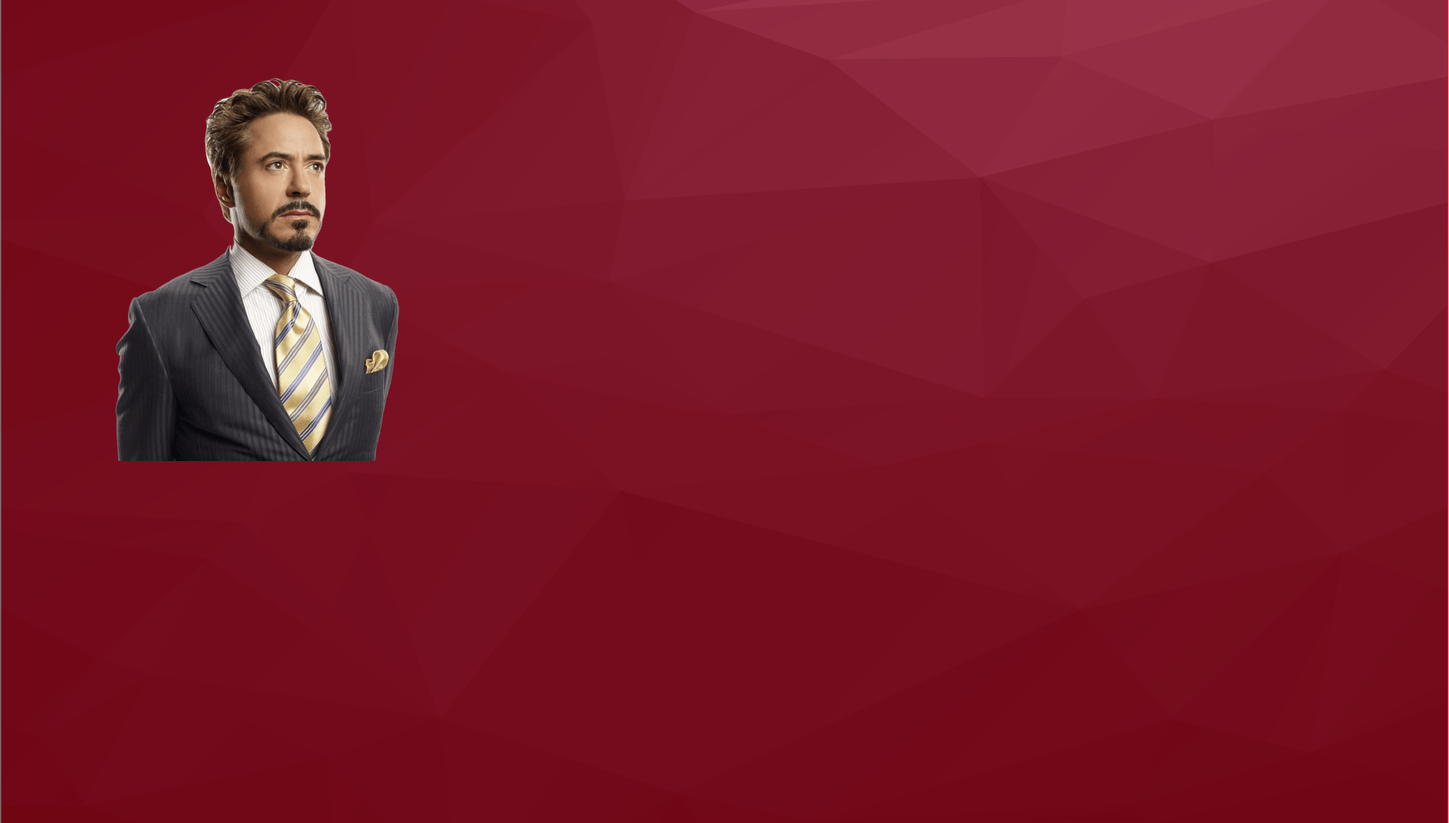
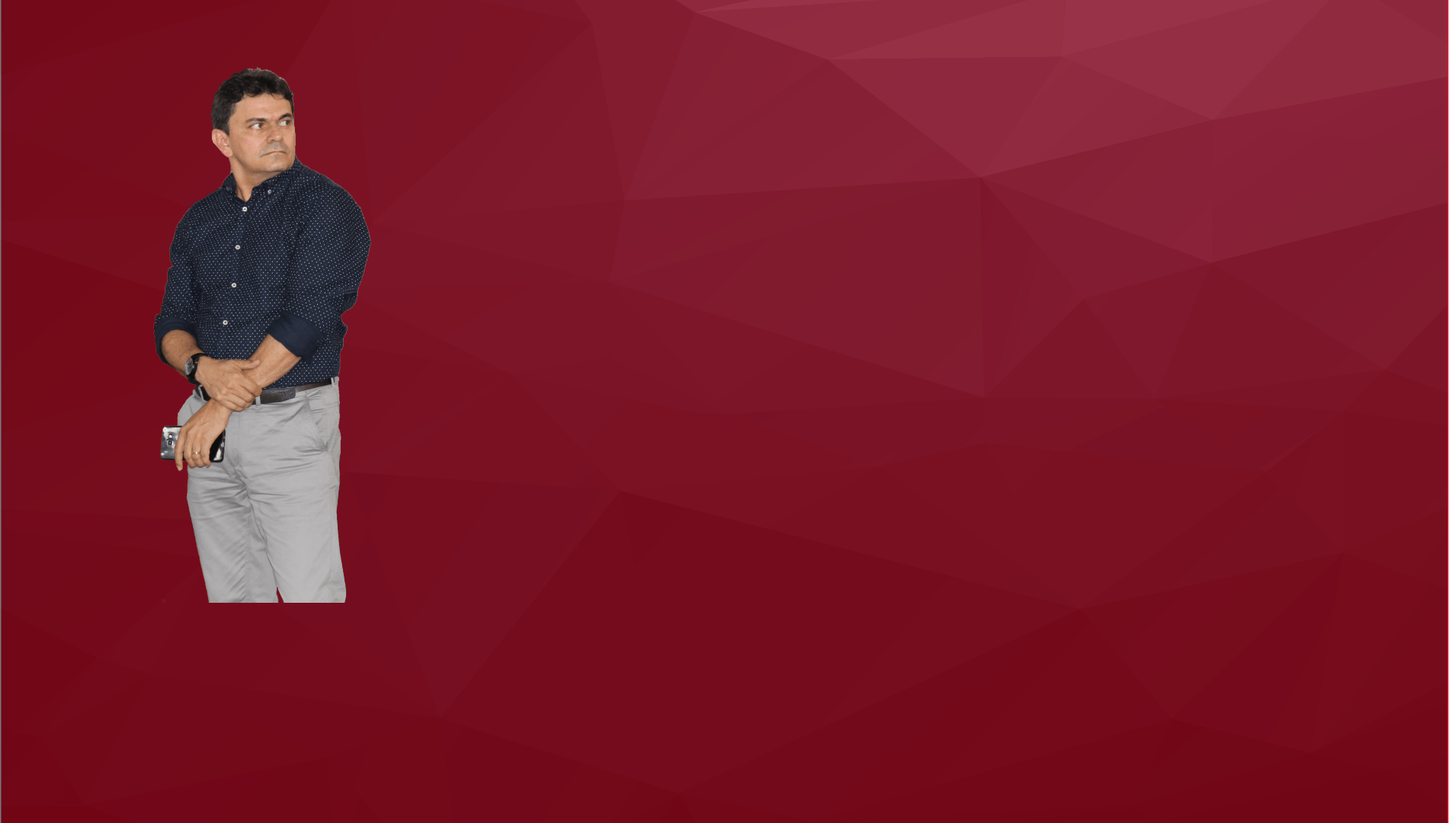
Alteração de imagens e responsividade

Changed region(s): [[0.0621, 0.0611, 0.2793, 0.7333]]

diff --git a/quick/index/templates/index/curso.html b/quick/index/templates/index/curso.html
@@ -58,49 +58,46 @@
 
                     <ul class="estilo_lista">
                         <li>
-                            Introdução ao APH, Cinemática do trauma, Abordagem primária, Colocação do colar cervical, Escala de Coma de Glasgow, Noções fundamentais de anatomia e fisiologia.
+                            Identificar o “gap” de competências. 
                         </li>
                     </ul>
                     <ul class="estilo_lista">
                         <li>
-                            Abordagem secundária, Rolamento 90° e 180°, Sinais vitais, Retirada de capacete.
+                            Garantir que metas de desenvolvimento sejam realizadas, a partir dos “gap” identificados.
                         </li>
                     </ul>
                     <ul class="estilo_lista">
                         <li>
-                            Rapel, Desobstrução das vias aéreas;
+                            Aumentar a autoestima, contribuindo para que os coachee possam superar obstáculos
+                            e alcançar suas metas de desempenho com excelência, ancorados pelas competências
+                            universais.
                         </li>
                     </ul>
                     <ul class="estilo_lista">
                         <li>
-                            RCP adulto/pediátrico/recém-nascido, Oximetria de pulso, Equipamentos para ventilação, Importância das vias e métodos de administração de medicamentos e acesso venoso, Biossegurança e precauções universais;
-
+                            Ampliar os níveis de proficiência nas competências trabalhadas durante o processo de
+                            coaching.
                         </li>
                     </ul>
                     <ul class="estilo_lista">
                         <li>
-                            Hemorragia e ferimentos, Bandagens, Elevação e transporte de vítimas, Bússola;
+                            Gerir o stress e transpor obstáculos com garra e vontade.
                         </li>
                     </ul>
                     <ul class="estilo_lista">
                         <li>
-                            Emergência Clínicas;
+                            Encontrar caminhos para o alcance da excelência profissional e pessoal.
                         </li>
                     </ul>
                     <ul class="estilo_lista">
                         <li>
-                            Acampamento, Salvamento aquática
-                        </li>
-                    </ul>
-                    <ul class="estilo_lista">
-                        <li>
-                            Traumatismo músculo-esquelético, Escala de Trauma, Imobilização de fraturas, Improviso de colar cervical, Retirada de veículo;
+                            Trabalhar a resiliência e persistir na busca de resultados desejados.
                         </li>
                     </ul>
                 </div>
             </div>
 
-            <div class="col-md-4 text-left estilo_lista" style="margin-top: -363px;">
+            <div class="col-md-4 text-left estilo_lista_espaco">
 
                 <h2 class="social-title" style="font-size: 25px;">Duração:</h2>
                 <span style="font-size: 14px">10 meses (Dividido em 10 módulos).</span>
@@ -139,7 +136,7 @@
                 <div class="modal-dialog" role="document">
                     <div class="modal-content col-md-11 col-md-offset-0 text-center">
                         <div class="modal-header" style="border-bottom: 1px; margin-top: 20px">
-                            <h3 class="modal-title" style="font-size: 27px; margin-right: 1px;" id="inscrever">Efetuar inscrição neste curso!</h3>
+                            <h3 class="modal-title" style="font-size: 24px; margin-left: 40px; color:white" id="inscrever">Efetuar inscrição neste curso!</h3>
 
                             <button type="button" class="close" style="margin-top: -106px; margin-right: -13px" data-dismiss="modal" aria-label="Close">
                                     <span aria-hidden="true">&times;</span>
@@ -148,51 +145,51 @@
                         <div class="modal-body">
                             <form>
                                 <div class="form-group">
-                                    <label><h4 class="text-gray">Nome Completo*</h4></label>
+                                    <label><h4 class="text-white">Nome Completo*</h4></label>
                                     <input type="text" name="text" value="" placeholder="João Pedro Martins" class="form-control form-control-plain">
                                 </div>
                                 <div class="form-group">
-                                    <label><h4 class="text-gray">CPF*</h4></label>
+                                    <label><h4 class="text-white">CPF*</h4></label>
                                     <input type="text" name="cpf" placeholder="000.000.000-00" class="form-control form-control-plain">
                                 </div>
                                 <div class="form-group">
-                                    <label><h4 class="text-gray">E-mail*</h4></label>
+                                    <label><h4 class="text-white">E-mail*</h4></label>
                                     <input type="email" name="email" placeholder="joao-pedro@provedor.com" class="form-control form-control-plain">
                                 </div>
                                 <div class="form-group">
-                                    <label><h4 class="text-gray">Data de Nascimento*</h4></label>
+                                    <label><h4 class="text-white">Data de Nascimento*</h4></label>
                                     <input type="text" name="dtnasc" placeholder="11/11/2011" class="form-control form-control-plain">
                                 </div>
                                 <div class="form-group">
-                                    <label><h4 class="text-gray">Senha para acesso ao portal*</h4></label>
+                                    <label><h4 class="text-white">Senha para acesso ao portal*</h4></label>
                                     <input type="password" name="password" placeholder="●●●●" class="form-control form-control-plain">
                                 </div>
                                 <div class="form-group">
-                                    <label><h4 class="text-gray">Celular*</h4></label>
+                                    <label><h4 class="text-white">Celular*</h4></label>
                                     <input type="text" name="celular" placeholder="84 99879-8989" class="form-control form-control-plain">
                                 </div>
                                 <div class="form-group">
-                                    <label><h4 class="text-gray">Endereço*</h4></label>
+                                    <label><h4 class="text-white">Endereço*</h4></label>
                                     <input type="text" name="endereco" placeholder="Rua, Av..." class="form-control form-control-plain">
                                 </div>
                                 <div class="form-group">
-                                    <label><h4 class="text-gray">Número*</h4></label>
+                                    <label><h4 class="text-white">Número*</h4></label>
                                     <input type="text" name="numero" placeholder="99999" class="form-control form-control-plain">
                                 </div>
                                 <div class="form-group">
-                                    <label><h4 class="text-gray">Bairro*</h4></label>
+                                    <label><h4 class="text-white">Bairro*</h4></label>
                                     <input type="text" name="bairro" placeholder="Nome do bairro" class="form-control form-control-plain">
                                 </div>
                                 <div class="form-group">
-                                    <label><h4 class="text-gray">Complemento*</h4></label>
+                                    <label><h4 class="text-white">Complemento*</h4></label>
                                     <input type="text" name="complemento" placeholder="Apt. 9999" class="form-control form-control-plain">
                                 </div>
                                 <div class="form-group">
-                                    <label><h4 class="text-gray">Cidade*</h4></label>
+                                    <label><h4 class="text-white">Cidade*</h4></label>
                                     <input type="text" name="cidade" placeholder="Nome da cidade" class="form-control form-control-plain">
                                 </div>
                                 <div class="form-group">
-                                    <label><h4 class="text-gray">Estado*</h4></label>
+                                    <label><h4 class="text-white">Estado*</h4></label>
                                     <select class="form-control form-control-plain">
                                             <option selected>Rio Grande do Norte</option>
                                             <option>...</option>
@@ -211,7 +208,7 @@
                 <div class="modal-dialog" role="document">
                     <div class="modal-content col-md-11 col-md-offset-0 text-center">
                         <div class="modal-header" style="border-bottom: 0px; margin-top: 20px">
-                            <h2 class="modal-title" style="font-size: 27px; margin-right: 1px;" id="interesse">Tenho interesse neste curso!</h2>
+                            <h2 class="modal-title" style="font-size: 27px; margin-right: 1px; color:white;" id="interesse">Tenho interesse neste curso!</h2>
                             <button type="button" class="close" style="margin-top: -106px; margin-right: -13px" data-dismiss="modal" aria-label="Close">
                                     <span aria-hidden="true">&times;</span>
                                 </button>
@@ -219,15 +216,15 @@
                         <div class="modal-body">
                             <form>
                                 <div class="form-group">
-                                    <label><h4 class="text-gray">Nome Completo*</h4></label>
+                                    <label><h4 class="text-white">Nome Completo*</h4></label>
                                     <input type="text" name="text" value="" placeholder="João Pedro Martins" class="form-control form-control-plain">
                                 </div>
                                 <div class="form-group">
-                                    <label><h4 class="text-gray">E-mail*</h4></label>
+                                    <label><h4 class="text-white">E-mail*</h4></label>
                                     <input type="email" name="email" placeholder="joao-pedro@provedor.com" class="form-control form-control-plain">
                                 </div>
                                 <div class="form-group">
-                                    <label><h4 class="text-gray">Celular*</h4></label>
+                                    <label><h4 class="text-white">Celular*</h4></label>
                                     <input type="text" name="celular" placeholder="84 99879-8989" class="form-control form-control-plain">
                                 </div>
                             </form>

diff --git a/quick/index/templates/index/catalogoProfessor.html b/quick/index/templates/index/catalogoProfessor.html
@@ -38,9 +38,6 @@
                 <li data-target="#carouselExampleIndicators" data-slide-to="0" class="active"></li>
                 <li data-target="#carouselExampleIndicators" data-slide-to="1"></li>
                 <li data-target="#carouselExampleIndicators" data-slide-to="2"></li>
-                <li data-target="#carouselExampleIndicators" data-slide-to="3"></li>
-                <li data-target="#carouselExampleIndicators" data-slide-to="4"></li>
-                <li data-target="#carouselExampleIndicators" data-slide-to="5"></li>
             </ol>
             <div class="carousel-inner" role="listbox">
                 <!-- Slide One - Set the background image for this slide in the line below -->
@@ -49,7 +46,7 @@
                     <div class="carousel-caption d-none d-md-block">
                         <div style="width: 18rem; transform: translate(600px, -50px)">
                             <div class="card card2">
-                                <img class="card-img-top img-fluid" src="{% static 'img/cards_completos/card_vermelho/iron.png' %}" alt="Card image cap">
+                                <img class="card-img-top img-fluid" src="{% static 'img/CarlosMoura.jpg' %}" alt="Card image cap">
                                 <div class="card-body">
                                     <h5 class="card-title card-text">Coaching Motivacional</h5>
                                     <p class="card-text">Coach Motivacional tem o objetivo de fazer com que os treinados contemplem seus pensamentos...</p>
@@ -65,7 +62,7 @@
                     <div class="carousel-caption d-none d-md-block">
                         <div style="width: 18rem; transform: translate(600px, -50px)">
                             <div class="card card2">
-                                <img class="card-img-top img-fluid" src="{% static 'img/cards_completos/card_vermelho/iron.png' %}" alt="Card image cap">
+                                <img class="card-img-top img-fluid" src="{% static 'img/CarlosMoura.jpg' %}" alt="Card image cap">
                                 <div class="card-body">
                                     <h5 class="card-title card-text">Coaching Educacional</h5>
                                     <p class="card-text">Coaching Educacional é voltado tanto ao desenvolvimento dos professores e demais profissionais da educação...</p>
@@ -81,7 +78,7 @@
                     <div class="carousel-caption d-none d-md-block">
                         <div style="width: 18rem; transform: translate(600px, -50px)">
                             <div class="card card2">
-                                <img class="card-img-top img-fluid" src="{% static 'img/cards_completos/card_vermelho/iron.png' %}"alt="Card image cap">
+                                <img class="card-img-top img-fluid" src="{% static 'img/CarlosMoura.jpg' %}"alt="Card image cap">
                                 <div class="card-body">
                                     <h5 class="card-title card-text">Coaching Empresarial</h5>
                                     <p class="card-text">Coaching Empresarial entra exatamente para ajudar os empresários a gerenciarem suas demandas com sucesso...</p>
@@ -109,34 +106,34 @@
                         <p class="card-text card-text-edit">Coaching Motivacional</p>
                         <div class="card-deck">
                             <div class="card card2">
-                                <img class="card-img-top img-fluid" src="{% static 'img/cards_completos/card_vermelho/iron.png' %}" alt="Card image cap">
+                                <img class="card-img-top img-fluid" src="{% static 'img/CarlosMoura.jpg' %}" alt="Card image cap">
                                 <div class="card-body">
-                                    <h5 class="card-title card-text">Vou deixar esses 2 como exemplo</h5>
-                                    <p class="card-text">Coach Motivacional tem o objetivo de fazer com que os treinados contemplem seus pensamentos...</p>
+                                    <h5 class="card-title card-text">Módulo 1</h5>
+                                    <p class="card-text">Coach Motivacional tem o objetivo de fazer com que os treinados contemplem seus pensamentos.</p>
                                     <a href="{% url 'curso' %}" class="btn btn-block btn-outline-danger">Saiba Mais</a>
                                 </div>
                             </div>
                             <div class="card card2">
-                                <img class="card-img-top img-fluid" src="{%static 'img/cards_completos/card_vermelho/iron.png' %} " alt="Card image cap">
+                                <img class="card-img-top img-fluid" src="{%static 'img/CarlosMoura.jpg' %} " alt="Card image cap">
                                 <div class="card-body">
-                                    <h5 class="card-title card-text">Talvez depois a gente muda</h5>
-                                    <p class="card-text">Coach Motivacional tem o objetivo de fazer com que os treinados contemplem seus pensamentos...</p>
+                                    <h5 class="card-title card-text">Módulo 2</h5>
+                                    <p class="card-text">Coach Motivacional tem o objetivo de fazer com que os treinados contemplem seus pensamentos.</p>
                                     <a href="{% url 'curso' %}" class="btn btn-block btn-outline-danger">Saiba Mais</a>
                                 </div>
                             </div>
                             <div class="card card2">
-                                <img class="card-img-top img-fluid" src="{% static 'img/cards_completos/card_vermelho/iron.png' %}" alt="Card image cap">
+                                <img class="card-img-top img-fluid" src="{% static 'img/CarlosMoura.jpg' %}" alt="Card image cap">
                                 <div class="card-body">
-                                    <h5 class="card-title card-text">Vou deixar esses 2 como exemplo</h5>
-                                    <p class="card-text">Coach Motivacional tem o objetivo de fazer com que os treinados contemplem seus pensamentos...</p>
+                                    <h5 class="card-title card-text">Módulo 3</h5>
+                                    <p class="card-text">Coach Motivacional tem o objetivo de fazer com que os treinados contemplem seus pensamentos.</p>
                                     <a href="{% url 'curso' %}" class="btn btn-block btn-outline-danger">Saiba Mais</a>
                                 </div>
                             </div>
                             <div class="card card2">
-                                <img class="card-img-top img-fluid" src="{%static 'img/cards_completos/card_vermelho/iron.png' %} " alt="Card image cap">
+                                <img class="card-img-top img-fluid" src="{%static 'img/CarlosMoura.jpg' %} " alt="Card image cap">
                                 <div class="card-body">
-                                    <h5 class="card-title card-text">Talvez depois a gente muda</h5>
-                                    <p class="card-text">Coach Motivacional tem o objetivo de fazer com que os treinados contemplem seus pensamentos...</p>
+                                    <h5 class="card-title card-text">Módulo 4</h5>
+                                    <p class="card-text">Coach Motivacional tem o objetivo de fazer com que os treinados contemplem seus pensamentos.</p>
                                     <a href="{% url 'curso' %}" class="btn btn-block btn-outline-danger">Saiba Mais</a>
                                 </div>
                             </div>

diff --git a/quick/index/templates/index/index.html b/quick/index/templates/index/index.html
@@ -12,6 +12,7 @@
     <!--CSS do Bootstrap-->
     <link rel="stylesheet" href="https://stackpath.bootstrapcdn.com/bootstrap/4.1.0/css/bootstrap.min.css" integrity="sha384-9gVQ4dYFwwWSjIDZnLEWnxCjeSWFphJiwGPXr1jddIhOegiu1FwO5qRGvFXOdJZ4" crossorigin="anonymous">
     <link rel="stylesheet" href="https://maxcdn.bootstrapcdn.com/font-awesome/4.7.0/css/font-awesome.min.css">
+    <link rel="stylesheet" href="https://maxcdn.bootstrapcdn.com/font-awesome/4.7.0/css/font-awesome.min.css">
 
     <!--CSS do Slick-->
     <link rel="stylesheet" href="https://cdnjs.cloudflare.com/ajax/libs/slick-carousel/1.7.1/slick.css">
@@ -138,10 +139,10 @@
         <div class="carousel">
                 
             <div class="card" style="width: 18rem;">
-                <img class="card-img-top" src="{% static "img/cards_completos/card_vermelho/iron.png"%}" alt="Card image cap" style="height:100%">
+                <img class="card-img-top" src="{% static "img/CarlosMoura.jpg"%}" alt="Card image cap" style="height:100%">
                 <div class="card-body">
-                    <h5 class="card-title" style="color:black">Tony Stark</h5>
-                    <p class="card-text" style="color:black">Some quick example text to build on the card title and make up the bulk of the card's content.</p>
+                    <h5 class="card-title" style="color:black">Carlos Moura</h5>
+                    <p class="card-text" style="color:black">Biólogo, mestre em genética e Biologia Molecular, gestor acadêmico, coach, analista comportamental e palestrante.</p>
                     <a href="{% url 'catalogo' %} " class="btn btn-block btn-outline-danger">Portfólio</a>
                 </div>
             </div>
@@ -149,8 +150,8 @@
             <div class="card" style="width: 18rem;">
                 <img class="card-img-top" src="{% static "img/cards_completos/card_azul/cap.png"%}" alt="Card image cap" style="height:100%">
                 <div class="card-body">
-                    <h5 class="card-title" style="color:black">Steve Rogers</h5>
-                    <p class="card-text" style="color:black">Some quick example text to build on the card title and make up the bulk of the card's content.</p>
+                    <h5 class="card-title" style="color:black">Estevan Roger</h5>
+                    <p class="card-text" style="color:black">Formado em psicologia com foco em relacionamentos pessoais. Instrutor universitario e coach motivacional. </p>
                     <a href="#" class="btn btn-block btn-outline-danger">Portfólio</a>
                 </div>
             </div>
@@ -158,26 +159,26 @@
             <div class="card" style="width: 18rem;">
                 <img class="card-img-top" src="{% static "img/cards_completos/card_roxo/nat.png"%}" alt="Card image cap" style="height:100%">
                 <div class="card-body">
-                    <h5 class="card-title" style="color:black">Natasha Romanov</h5>
-                    <p class="card-text" style="color:black">Some quick example text to build on the card title and make up the bulk of the card's content.</p>
+                    <h5 class="card-title" style="color:black">Natalia Roma</h5>
+                    <p class="card-text" style="color:black">Formada em psicologia com foco em relacionamentos pessoais. Instrutor universitario e coach motivacional.</p>
                     <a href="#" class="btn btn-block btn-outline-danger">Portfólio</a>
                 </div>
             </div>
 
             <div class="card" style="width: 18rem;">
-                <img class="card-img-top" src="{% static "img/cards_completos/card_verd/hulk.png"%}" alt="Card image cap" style="height:100%">
+                <img class="card-img-top" src="{% static "img/RodrigoCorreia.jpg"%}" alt="Card image cap" style="height:100%">
                 <div class="card-body">
-                    <h5 class="card-title" style="color:black">Bruce Banner</h5>
-                    <p class="card-text" style="color:black">Some quick example text to build on the card title and make up the bulk of the card's content.</p>
+                    <h5 class="card-title" style="color:black">Rodrigo Correia</h5>
+                    <p class="card-text" style="color:black">Formado em psicologia com foco em relacionamentos pessoais. Instrutor universitario e coach motivacional.</p>
                     <a href="#" class="btn btn-block btn-outline-danger">Portfólio</a>
                 </div>
             </div>
 
             <div class="card" style="width: 18rem;">
-                <img class="card-img-top" src="{% static "img/cards_completos/card_cinza/thor.png"%}" alt="Card image cap" style="height:100%">
+                <img class="card-img-top" src="{% static "img/ErikaScherma.jpg"%}" alt="Card image cap" style="height:100%">
                 <div class="card-body">
-                    <h5 class="card-title" style="color:black">Thor Odinson</h5>
-                    <p class="card-text" style="color:black">Some quick example text to build on the card title and make up the bulk of the card's content.</p>
+                    <h5 class="card-title" style="color:black">Erika Scherman</h5>
+                    <p class="card-text" style="color:black">Formada em psicologia com foco em relacionamentos pessoais. Instrutor universitario e coach motivacional.</p>
                     <a href="#" class="btn btn-block btn-outline-danger">Portfólio</a>
                 </div>
             </div>
@@ -185,8 +186,8 @@
             <div class="card" style="width: 18rem;">
                 <img class="card-img-top" src="{% static "img/cards_completos/card_preto/tchala.png"%}" alt="Card image cap" style="height:100%">
                 <div class="card-body">
-                    <h5 class="card-title" style="color:black">Tchalla</h5>
-                    <p class="card-text" style="color:black">Some quick example text to build on the card title and make up the bulk of the card's content.</p>
+                    <h5 class="card-title" style="color:black">Thiago Tavares</h5>
+                    <p class="card-text" style="color:black">Formado em psicologia com foco em relacionamentos pessoais. Instrutor universitario e coach motivacional.</p>
                     <a href="#" class="btn btn-block btn-outline-danger">Portfólio</a>
                 </div>
             </div>

diff --git a/quick/index/static/css/curso.css b/quick/index/static/css/curso.css
@@ -84,6 +84,7 @@ section {
     box-sizing: border-box;
     font-size: 17px;
     color: white;
+    
 }
 
 .btn-color {
@@ -246,4 +247,24 @@ footer>ul>li {
 .img-logo2{
     width: 60%;
     vertical-align: middle;
+}
+
+.modal-content{
+    background-image: url('../img/modal-img.jpg');
+}
+
+.text-white{
+    color: white;
+}
+
+.estilo_lista_espaco{
+    color:white;
+    margin-top: -363px;
+}
+
+@media screen and (max-width : 768px) {
+    .estilo_lista_espaco{
+        color: white;
+        margin-top: 0px !important;
+    }
 }

diff --git a/quick/index/static/css/estilo.css b/quick/index/static/css/estilo.css
@@ -21,7 +21,6 @@ body {
 
 .img-logo {
     width: 200px;
-    height: 75px;
     vertical-align: middle;
 }
 
@@ -505,7 +504,7 @@ p.description{
 }
 
 .modal-content{
-    background-image: url('../img/modal_img.jpg');
+    background-image: url('../img/modal-img.jpg');
 }
 
 .img-logo2{
